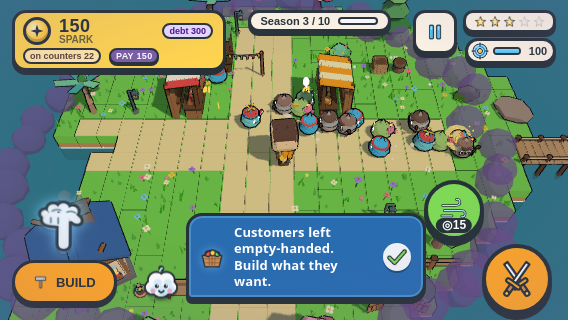
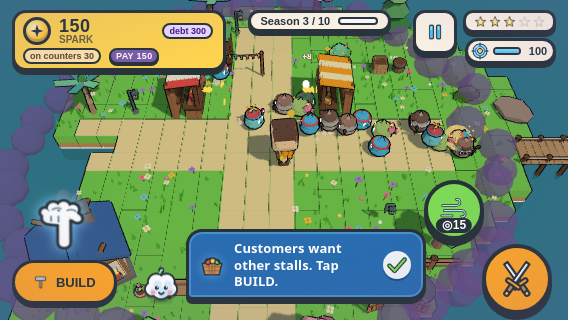
WIP ?: S73: HANDOFF_S73, README, unserved card shots

diff --git a/LUMEN/game/docs/HANDOFF_S73.md b/LUMEN/game/docs/HANDOFF_S73.md
@@ -1,0 +1,22 @@
+# HANDOFF S73 (2026-11-09) - S3 walk-away BUILD card, credits roll + music
+
+**Setup** (same as S72): `bash LUMEN/game/tools/github.sh <TOKEN>`; browser: `cd LUMEN/game/tools && npm i playwright@1.47.0 && npx playwright install chromium` + apt libs (Debian 13 list in HANDOFF_S72). Server: `cd LUMEN/game && setsid -f python3 -m http.server 3000 --bind 0.0.0.0`.
+Browser rigs are slow (swiftshader, 40-90 s): start them with `setsid -f node tools/x.mjs W H > /tmp/x.log 2>&1 < /dev/null` and poll the log; a foreground run over 2 min kills the tool call. Never `pkill -f chrom` (it matches your own shell).
+
+## Done
+1. **S3 passive-player question answered with a nudge, not a rebalance.** `customers.js` counts walk-aways (`noStall`) per season (`_seasonNoStall`, reset on season change) and emits ONE `cust:unserved {count, season, want}` at `UNSERVED_AT = 6`. New tutor card `cust:unserved` (data/tutor.json): "Customers want other stalls. Tap BUILD." with the hand on the BUILD button, closes when the tray opens or a stall is placed. Passive S3 probe: fires at 6 walk-aways in every seed (they reach 17-20).
+2. **Tutor `urgent` flag** (`ui/tutor.js` `show()`): a one-shot event card with `urgent: true` replaces an info card that is up (was dropped behind `cust:want` - found in the real browser) and QUEUES behind a verb step (never replaces it, never lost). Tests: `tests/tutor.test.mjs` 15 (2 new). Tests must call `tutor.destroy()` or node --test hangs on the live timer.
+3. **Credits roll + music** (`ui/credits.js/.css`): the thank-you line is now a looping CSS-only scrolling roll (`ROLL`, 7 true credit lines, masked top/bottom, static list under reduce-motion). `ui:credits:music` is emitted on show and again when `ui:title:open` fires underneath (the title returns right after `game:won` and would start its own music). `core/Audio.js` maps `ui:credits:music -> music 'credits'` and `ui:credits:close -> 'title'`; `audio/manifest.json` has a new `credits` entry (victory.ogg, looped, vol .55; no new asset). Tests: `tests/credits.test.mjs` 7.
+4. `GAME_VERSION = 'S73'`. Rig `tools/shot_s73_unserved.mjs W H` (real browser: S3, wave, waits for the card, screenshots it). Total `node --test tests/*.test.mjs` = 127/127; `tools/wip.sh ... --tutor --ui` ALL OK.
+5. Screens reviewed this chat: title 844x390, credits 568x320 (roll clear of lessons + button, no scroll), want/unserved card 844x390 and 568x320, pier chip 844x390. An image review of the 568x320 play view found nothing high: card readable, hand points at BUILD.
+
+## Review notes (not fixed, existing look)
+- 568x320: the unserved card wraps to 3 lines and sits over the lower path; fine, but a shorter or wider card would be tidier.
+- Top-left HUD pills ("on counters", "debt", "PAY") are small on a 568 px phone; the empty season stars top-right are very pale. Medium/low; needs a real phone look.
+- Market cluster in S3 is busy.
+
+## Not done / next
+- Credits music has not been heard on a device (muted rigs); `credits` loop = victory.ogg, may want its own track. Roll not seen on a real phone.
+- A human playtest of the S3 card (does a beginner actually tap BUILD, build the wanted stall, and recover?).
+- The 568x320 title shot (`tools/shot_title.mjs 568 320`) was not re-run this chat (a chained rig died); 844x390 title looks fine.
+- Untouched: Wishes + Neighbours, Regions, cinematic polish. No new icons/MCP model work this chat (nothing needed them).

diff --git a/LUMEN/README.md b/LUMEN/README.md
@@ -22,6 +22,9 @@ LUMEN/
 > Everything from update 17 onward in the old plan (regions/biomes/World v3, 13B, 14) is **stopped**. Next IDs: `40A 40B 41A–41D 42A–42D 43Z 44Z 45Z`
 > (see `LUMEN_extras/README_pipeline.md` "## Next"; `game/tools/next.sh` prints the one to do).
 
+## S73 (2026-11-09) — version shown in the title menu: `S73 · jam build`
+S3 passive players (17-20 customers leaving because nobody sells cloth / toys / pottery / lanterns) now get ONE blue card after the 6th walk-away: *Customers want other stalls. Tap BUILD.* (`cust:unserved`, tutor `urgent` cards replace an info card or wait behind a verb step). The credits card has a looping scrolling roll and its own music cue (`credits` = victory.ogg loop). Handoff `game/docs/HANDOFF_S73.md`; rig `tools/shot_s73_unserved.mjs`.
+
 ## Touch fixes (S63, 2026-11-07) — version shown in the title menu: `S63 · jam build`
 User report: on a phone a jar tap kept extracting (the tap pressed the jar but never released), and Strangers / the Baron needed a very close, long stand-still. Now **a tap = one deposit** (`sb.tapJar`), the **talk range is 3.4 u** and needs **0.25 s** of standing still (Baron's visit included, `sb.talk()` never touches a jar), the jar tag and tray hint use touch wording (no E / B / R letters), the 'drag to move' label fades on the first step. IDs S63-A..I in `game/docs/HANDOFF_S59.md`; rigs `tools/play_s63.mjs`, `tools/play_s63c.mjs`.
 
